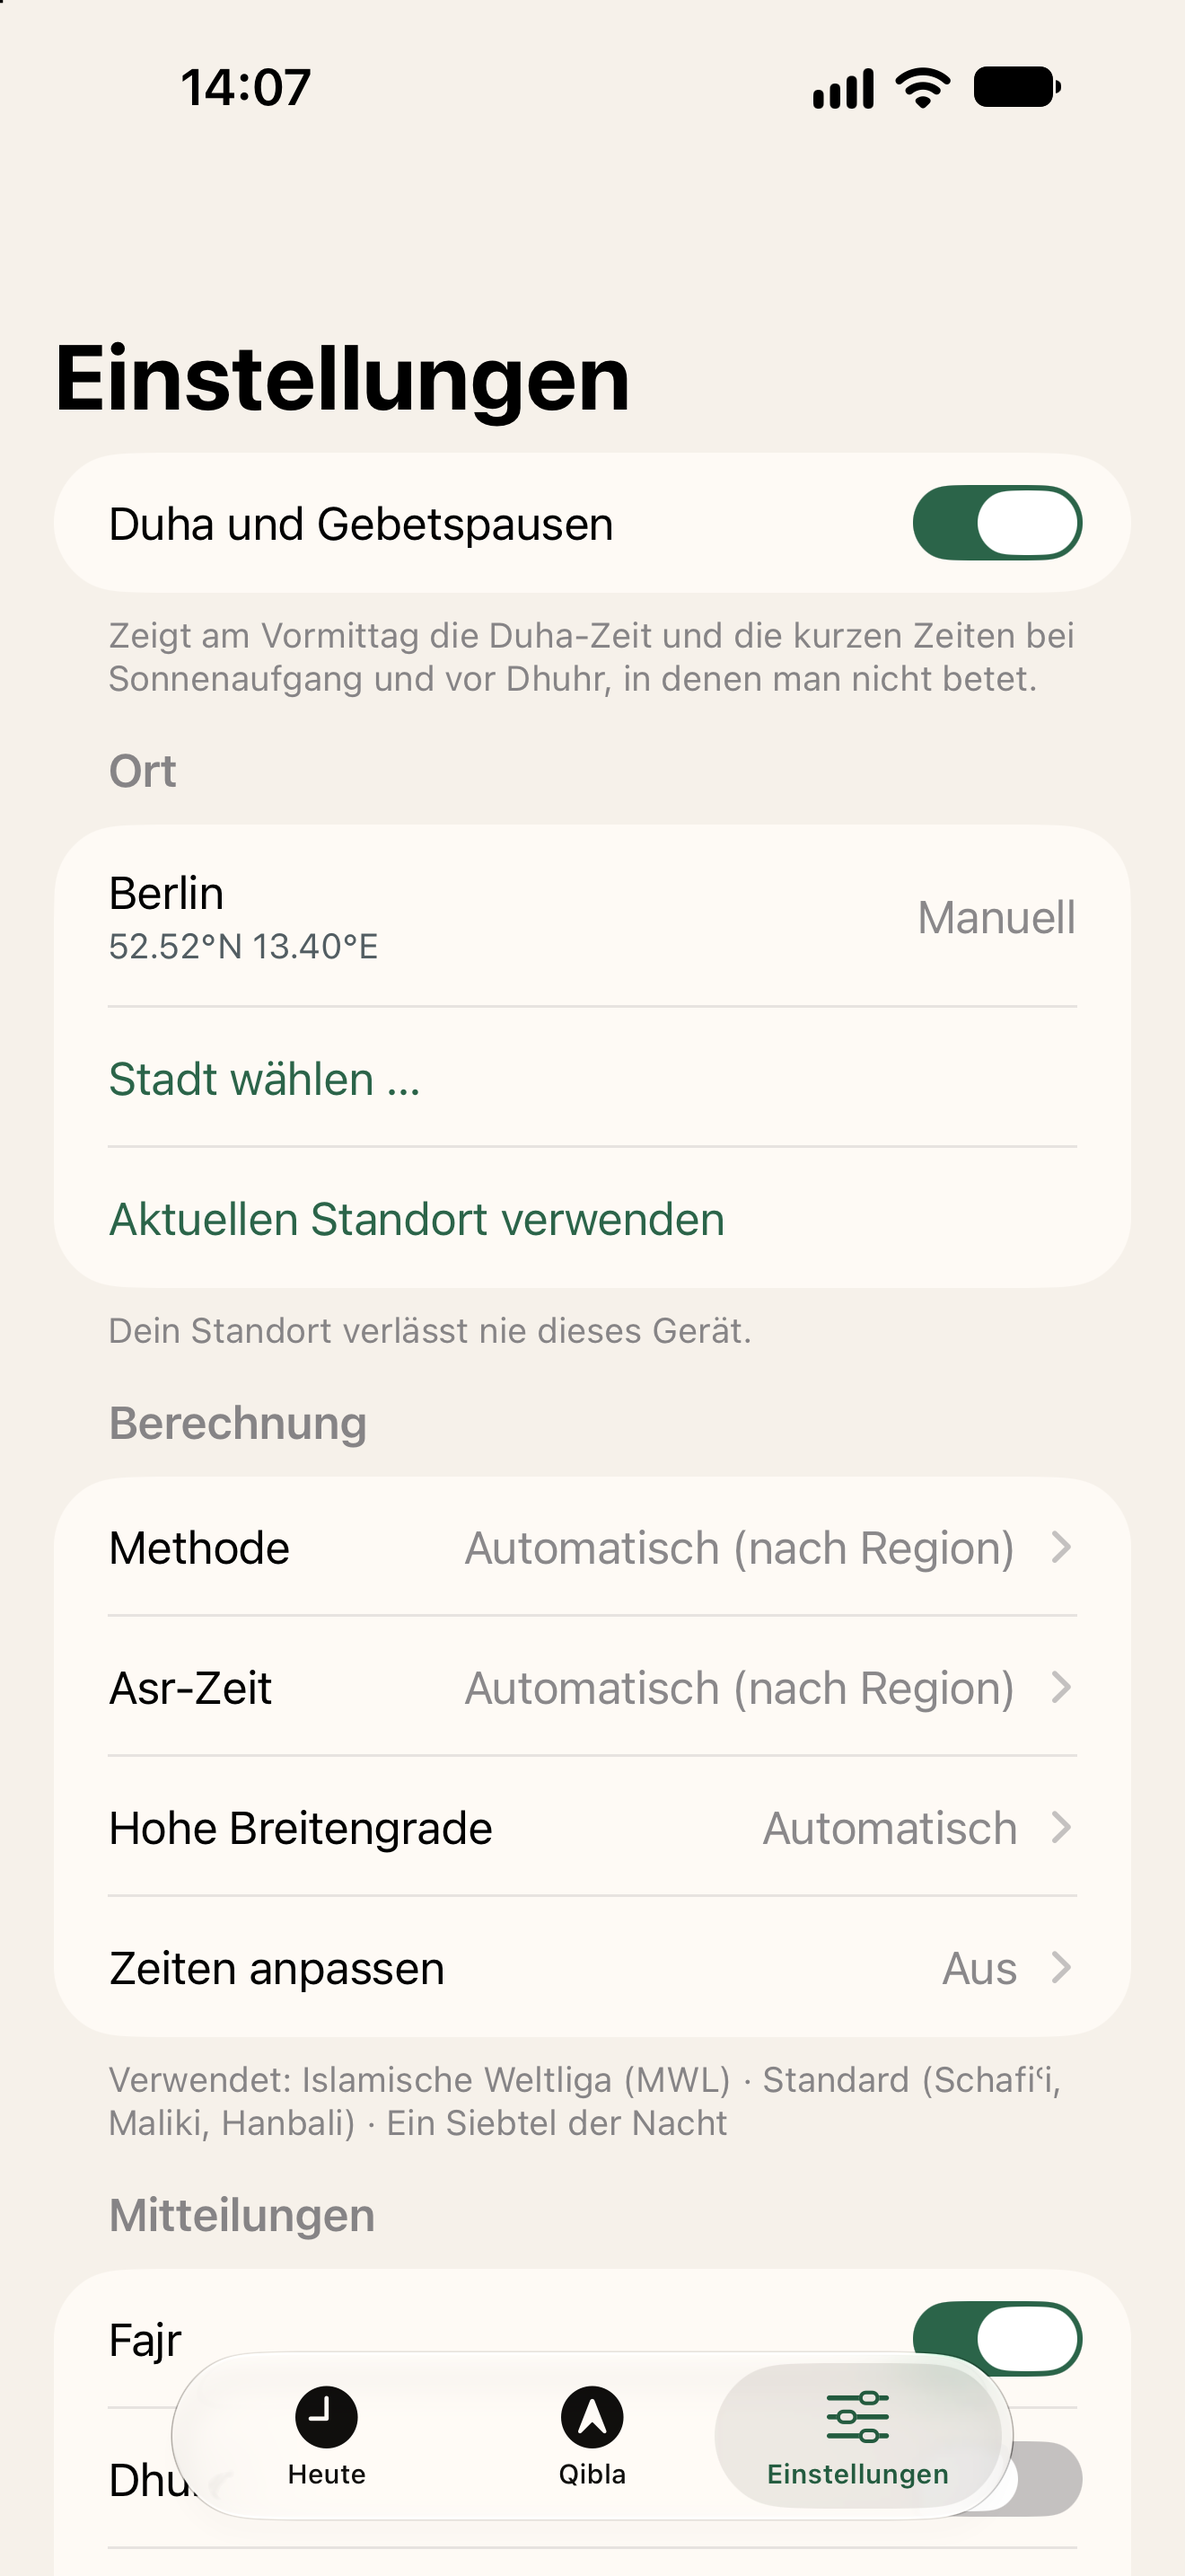
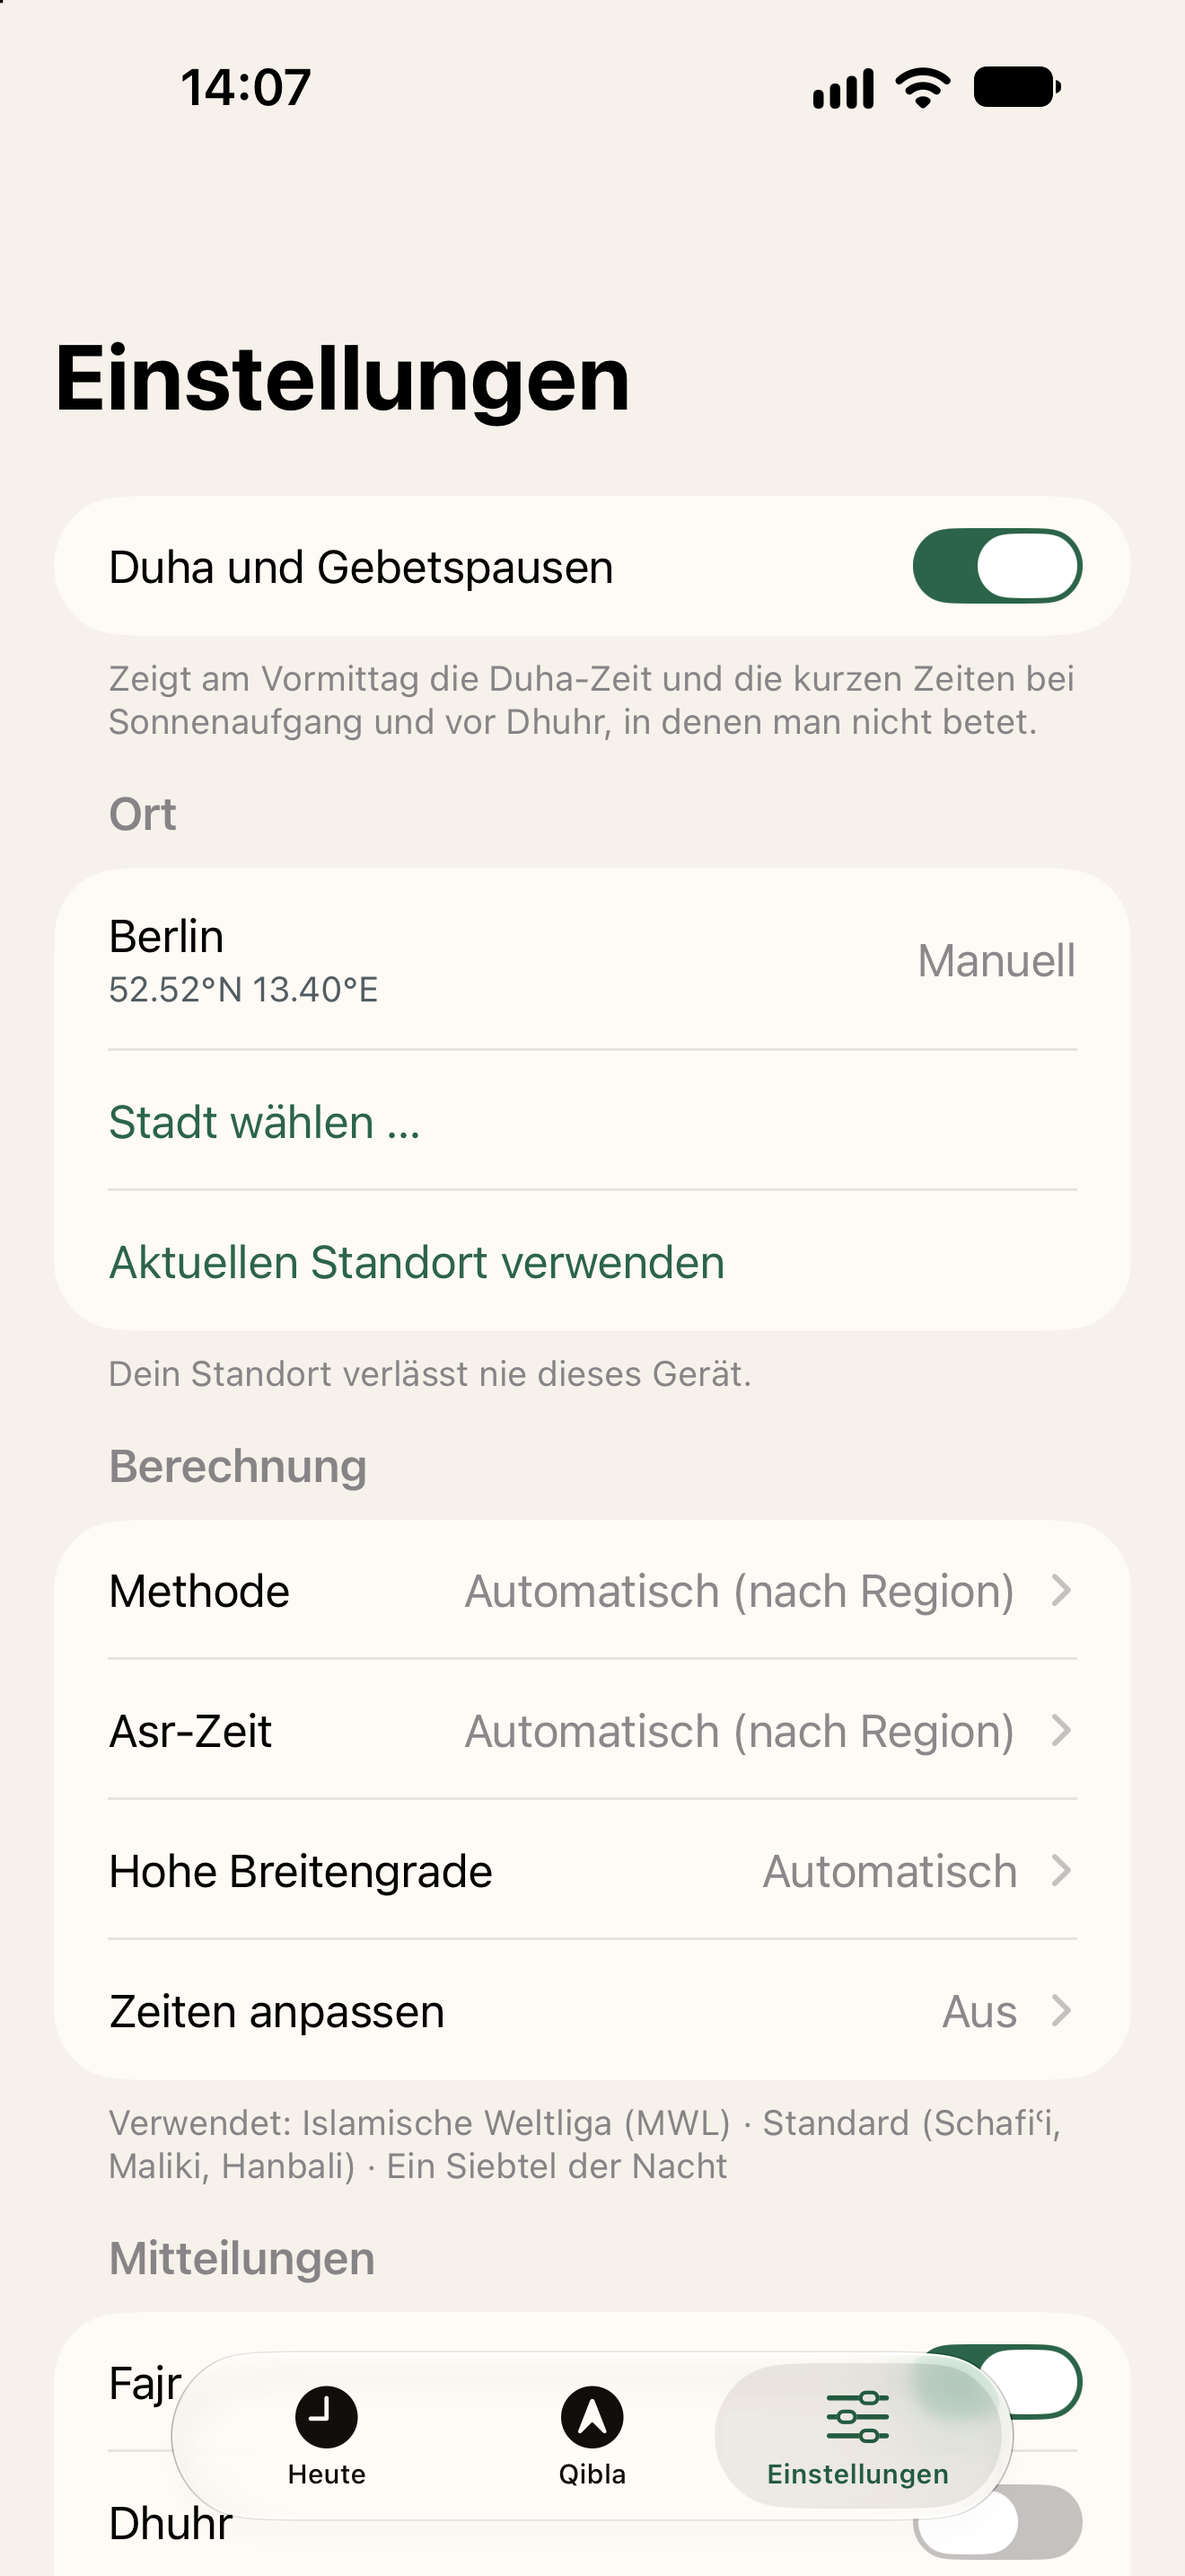
Settings: room between the large title and the first group; screenshots updated

diff --git a/Sukun/Features/Settings/SettingsView.swift b/Sukun/Features/Settings/SettingsView.swift
@@ -39,6 +39,8 @@ struct SettingsView: View {
                 .sukunRowBackground()
             }
             .scrollContentBackground(.hidden)
+            // The first group has no header, so give it room below the large title.
+            .contentMargins(.top, 16, for: .scrollContent)
             .background(Palette.background.ignoresSafeArea())
             .navigationTitle("Settings")
             .sheet(isPresented: $showingCitySearch) { CitySearchView() }
